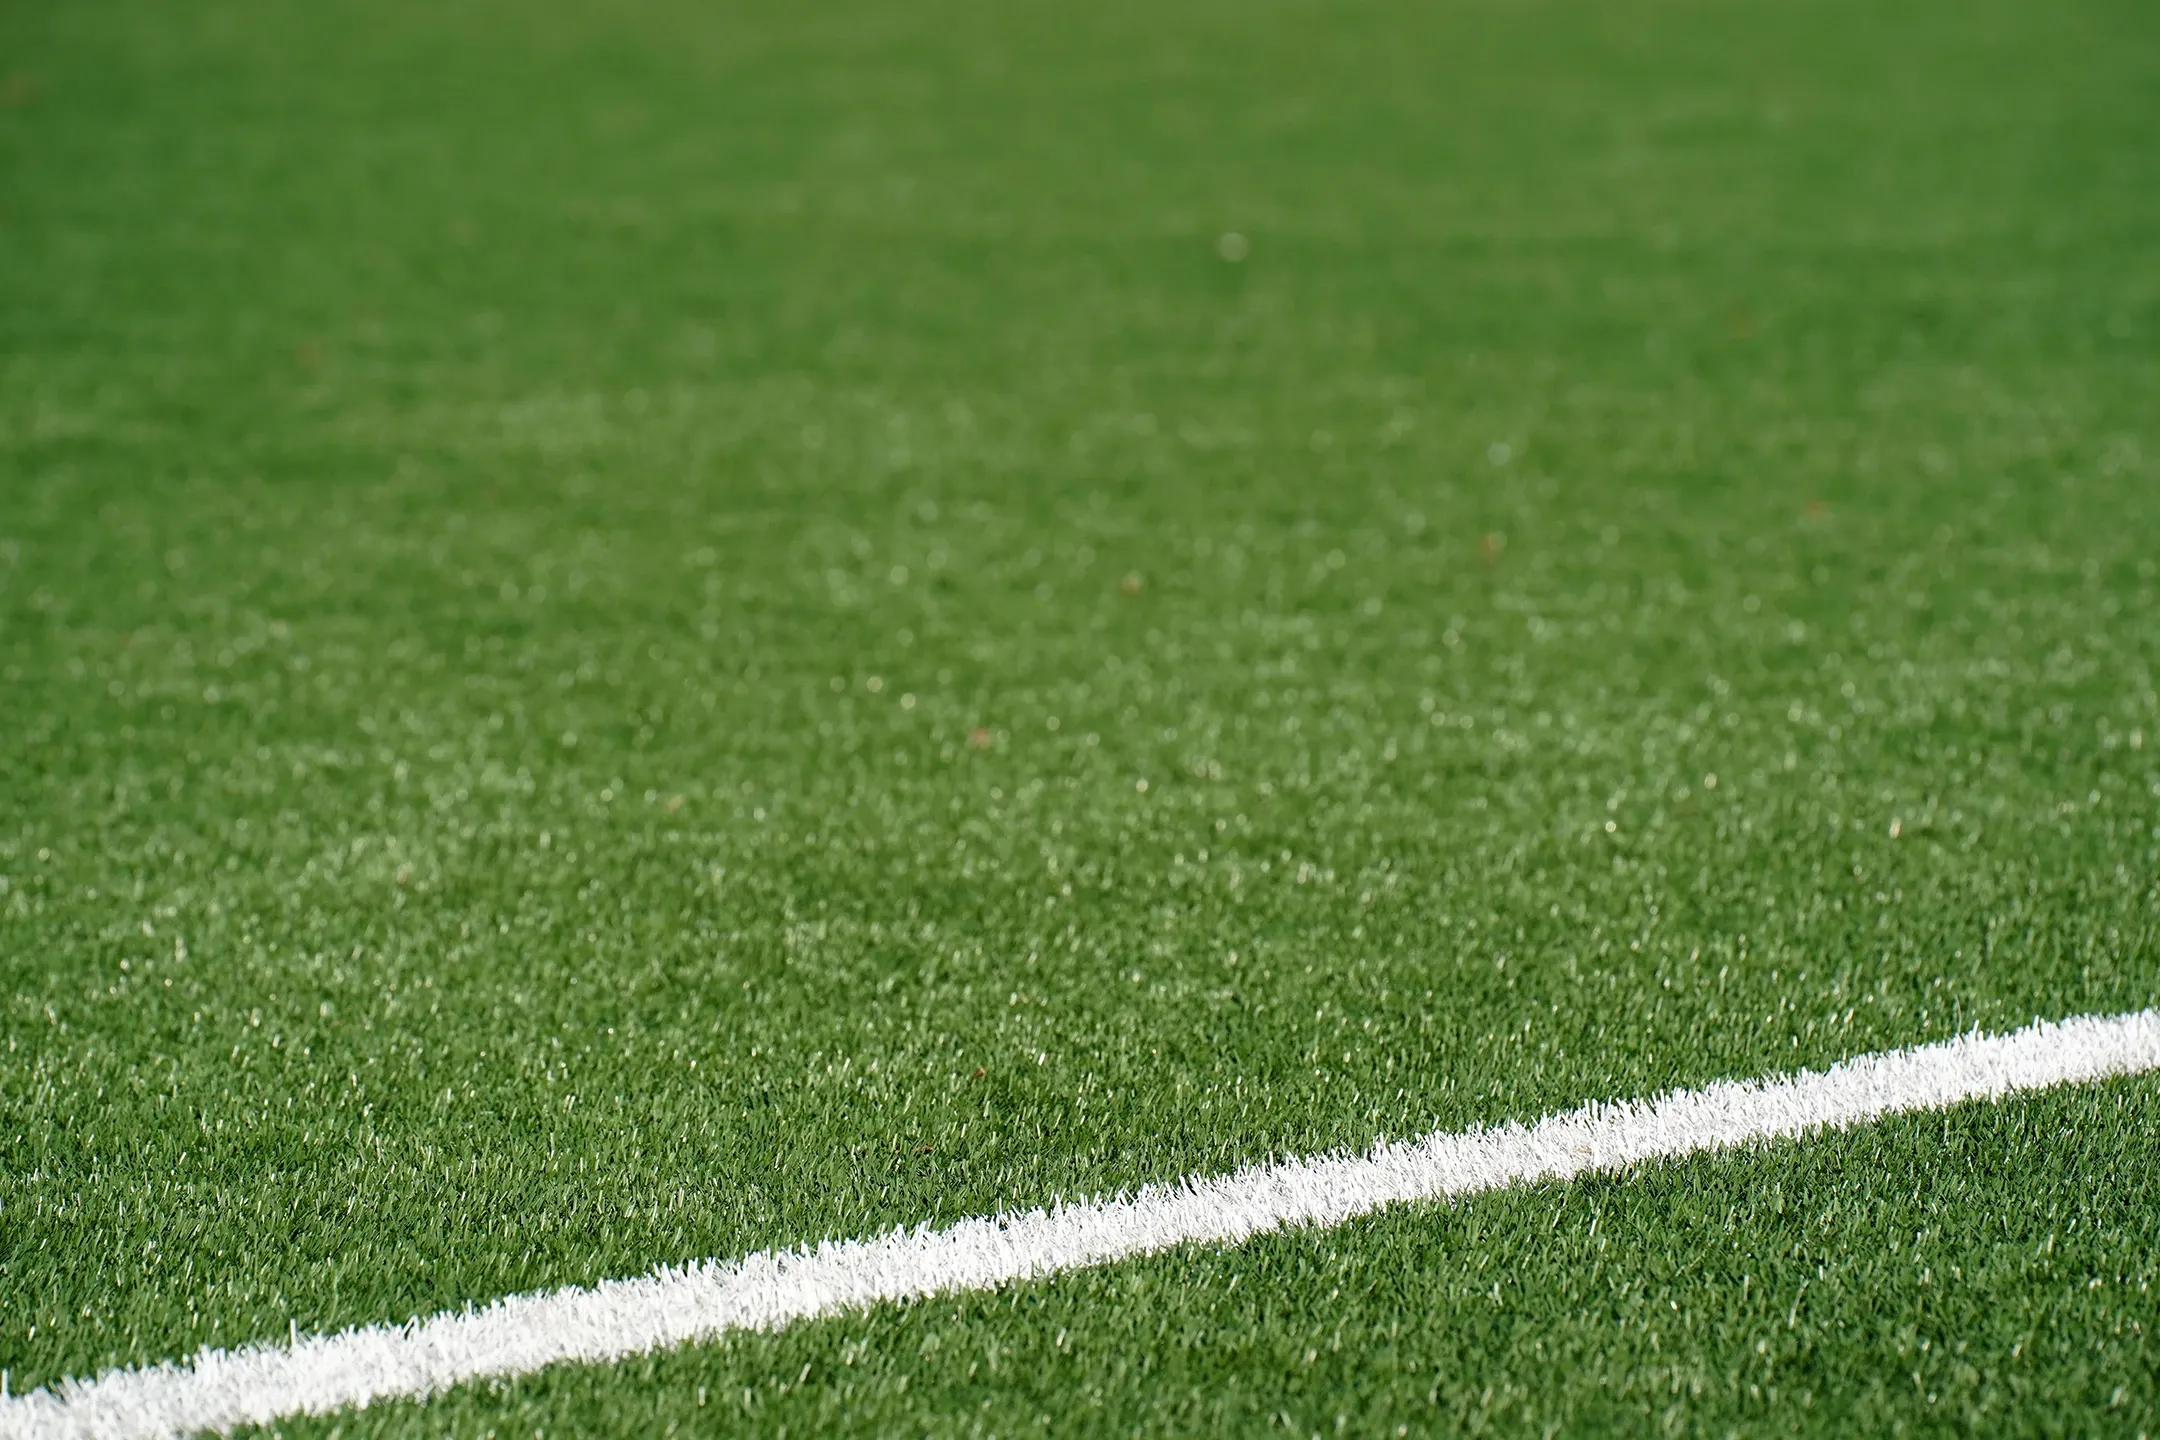
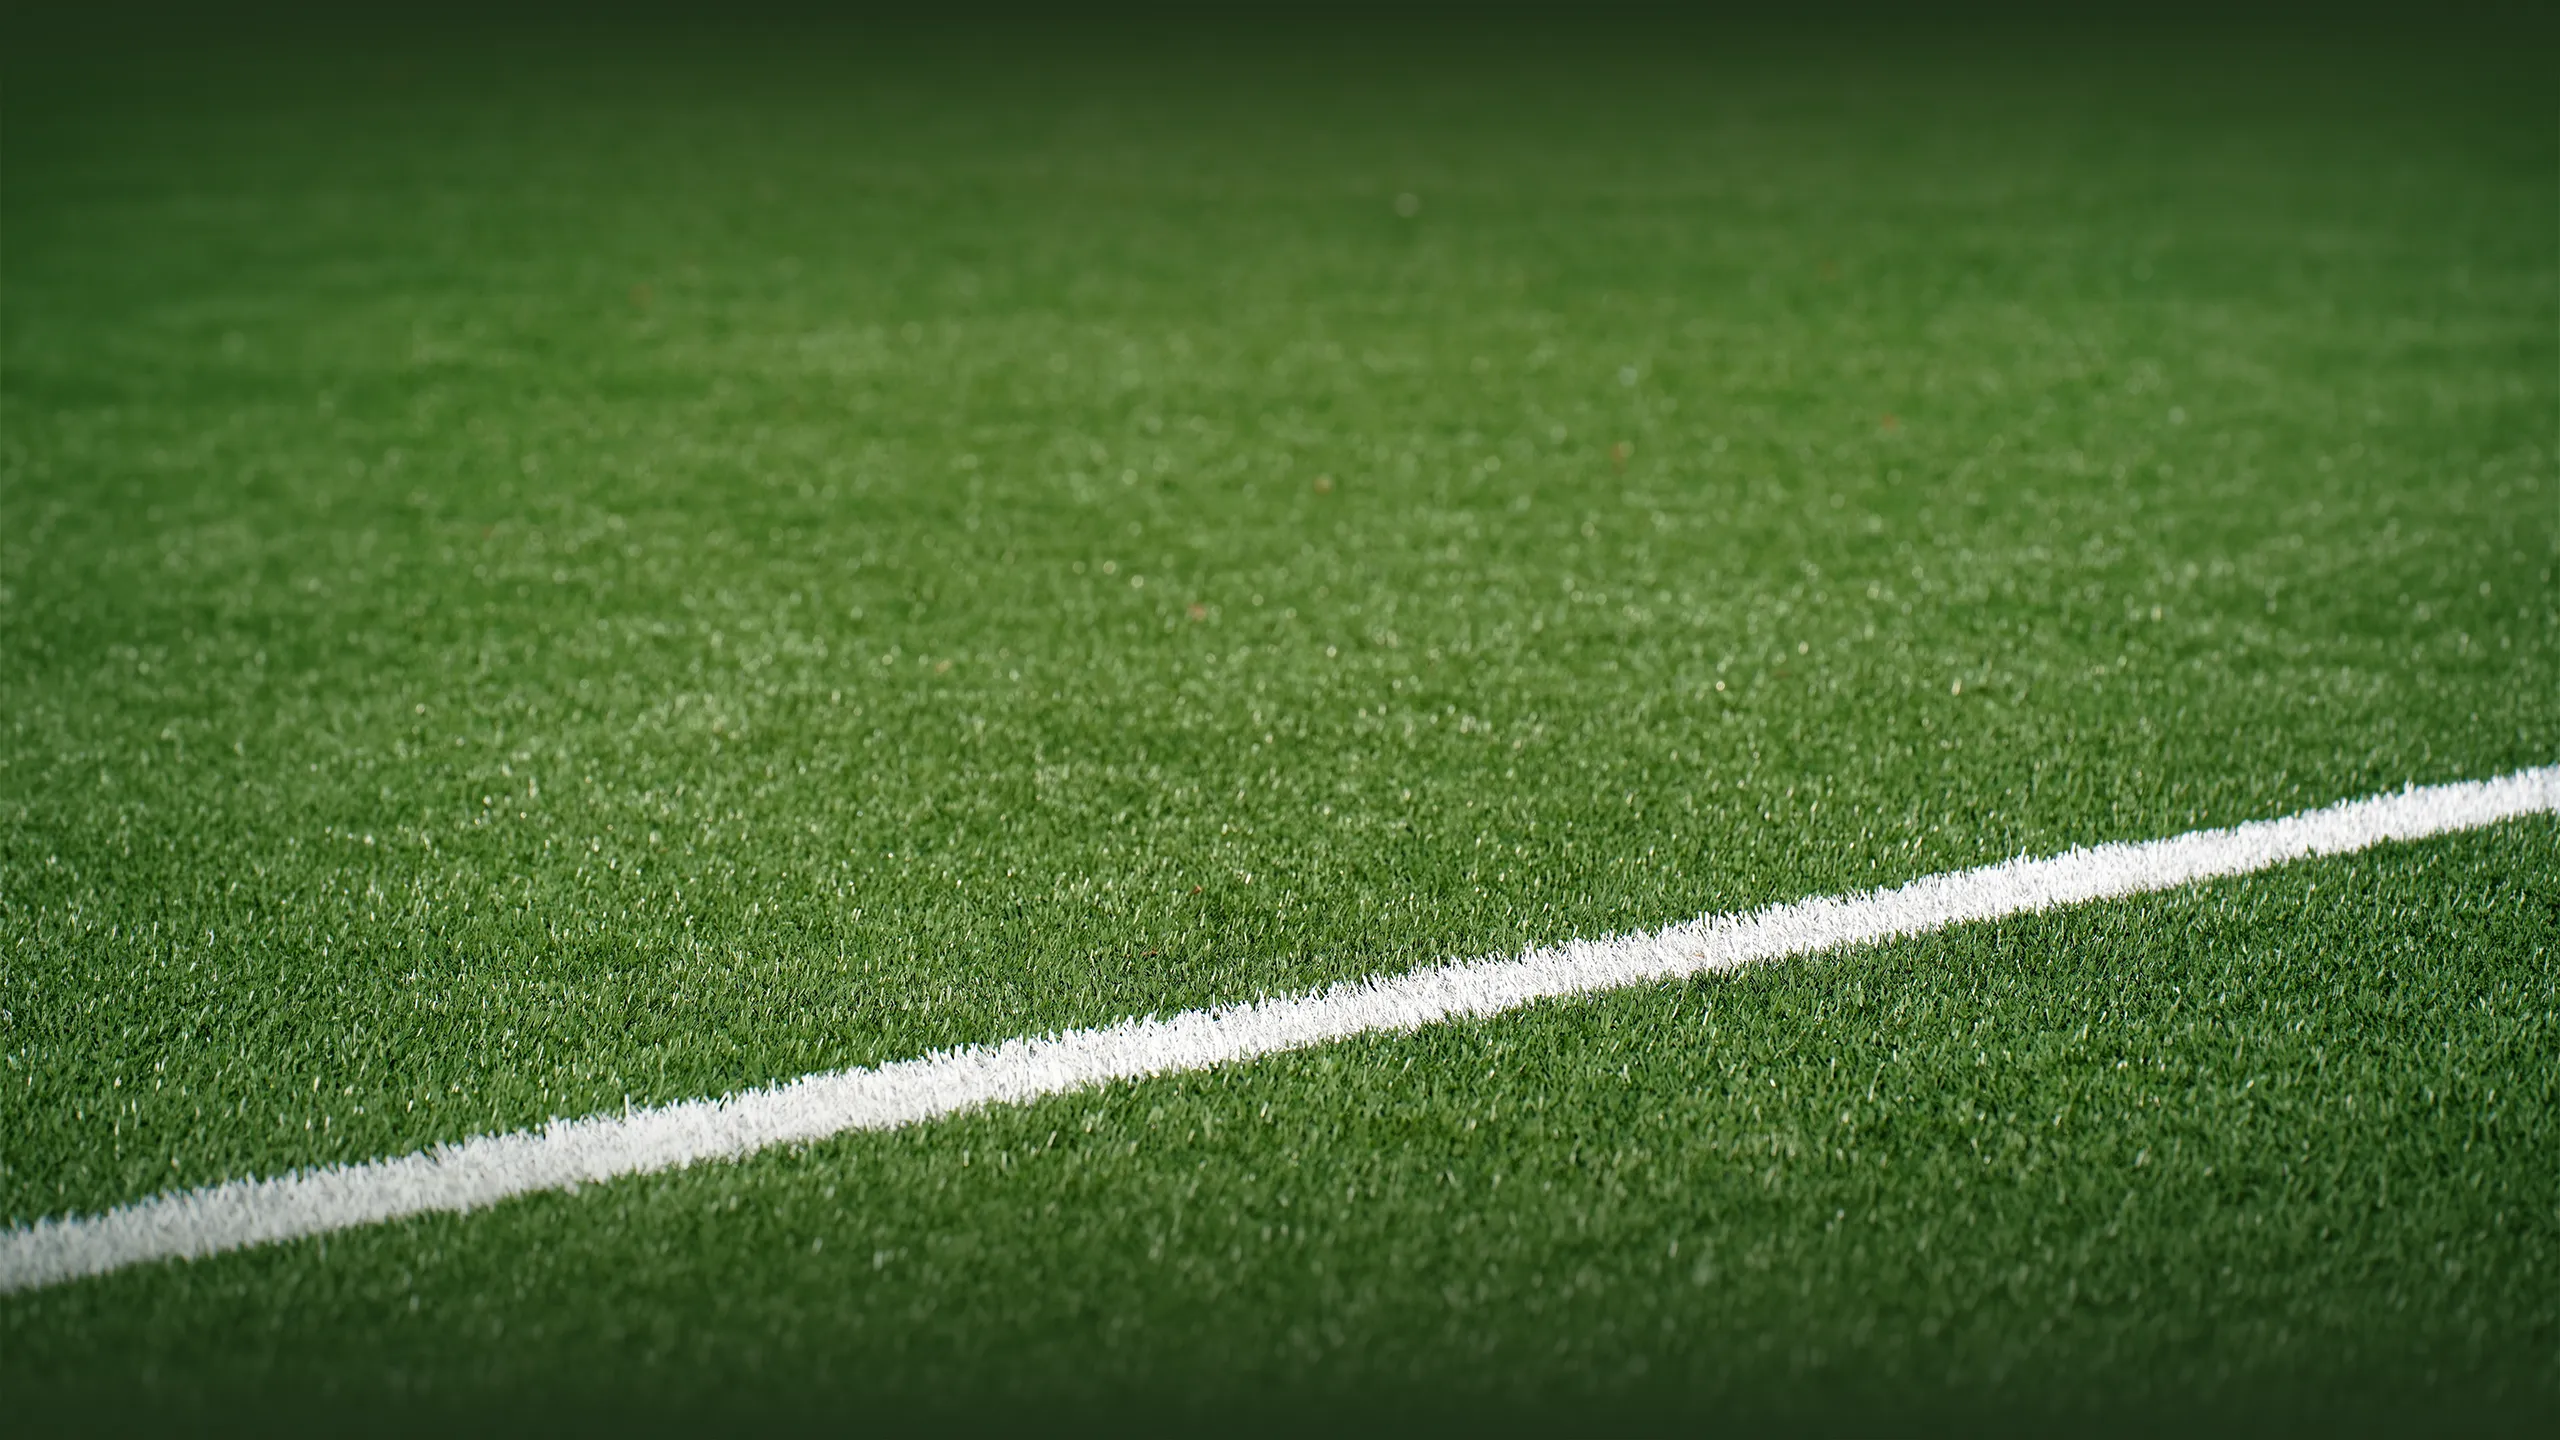
adjusted background color

diff --git a/docs/app.css b/docs/app.css
@@ -22,8 +22,8 @@ html {
   background:
     linear-gradient(180deg, rgb(8 19 11 / 0.72) 0%, rgb(10 27 15 / 0.45) 42%, rgb(7 17 10 / 0.68) 100%),
     linear-gradient(90deg, rgb(4 15 8 / 0.16), transparent 42%, rgb(4 15 8 / 0.16)),
-    url("./assets/background.webp") center bottom / cover no-repeat,
-    linear-gradient(#1c2f16, #1c2f16);
+    url("./assets/background.webp") center bottom / cover no-repeat;
+  background-color: rgb(16 26 16);
   background-attachment: fixed;
   scroll-behavior: smooth;
 }